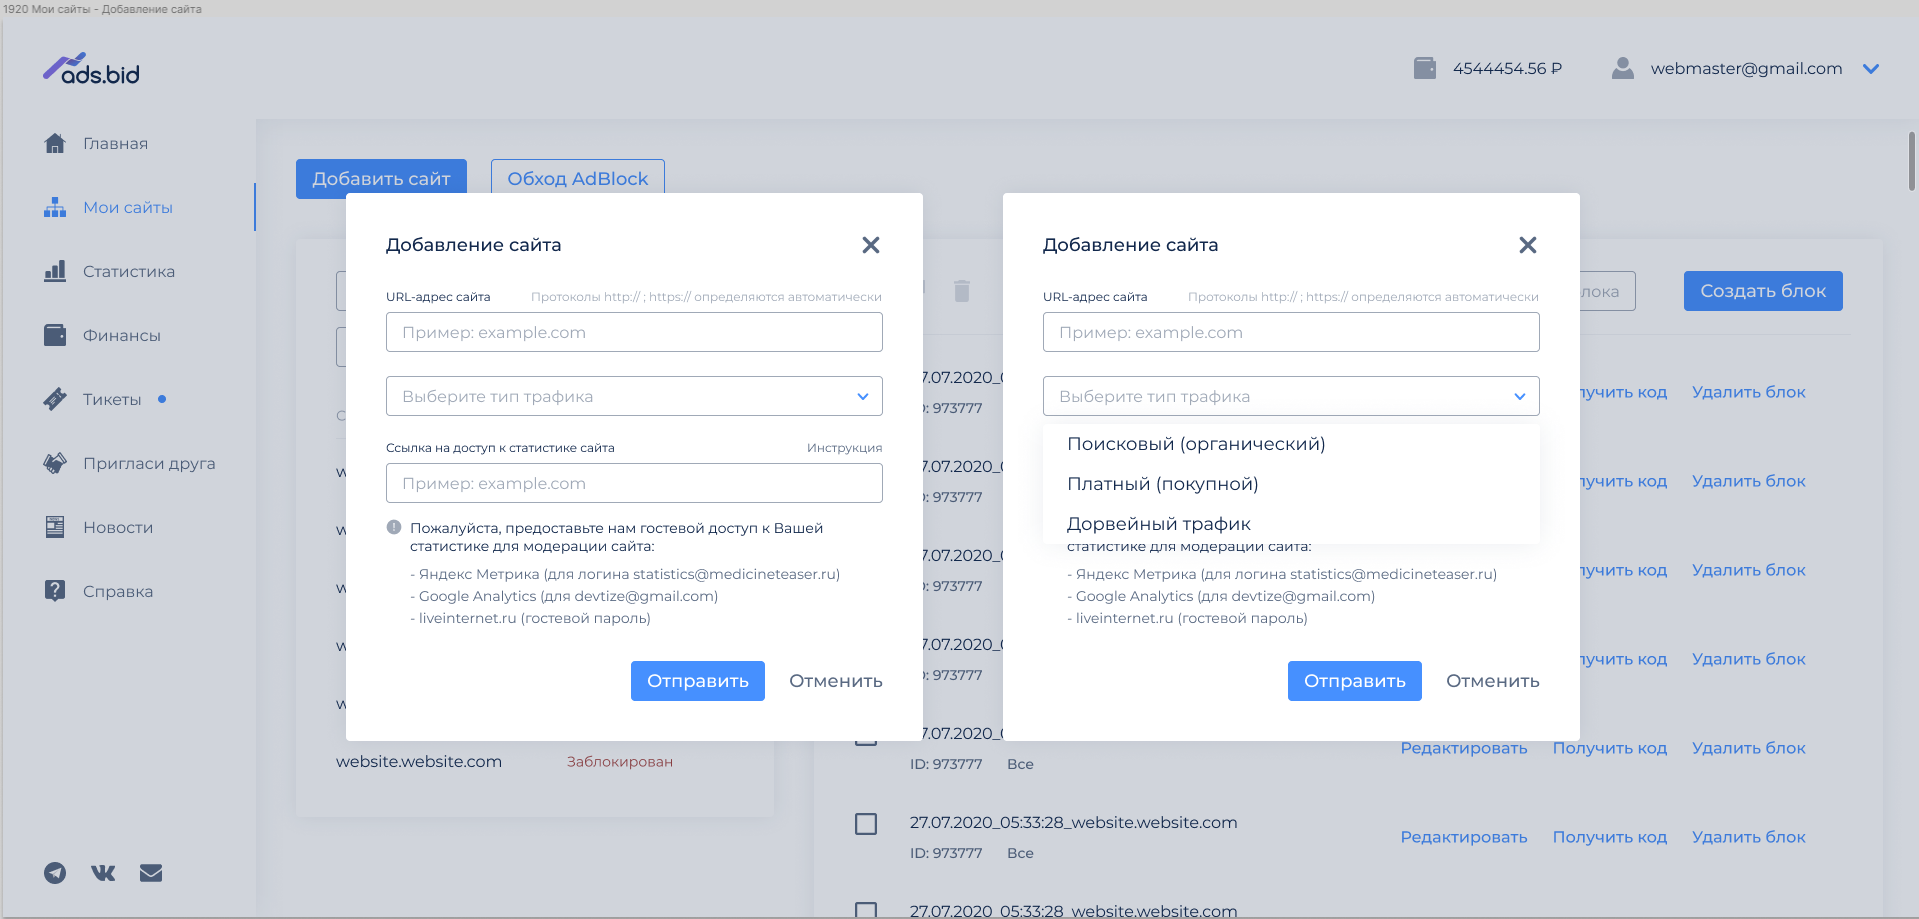
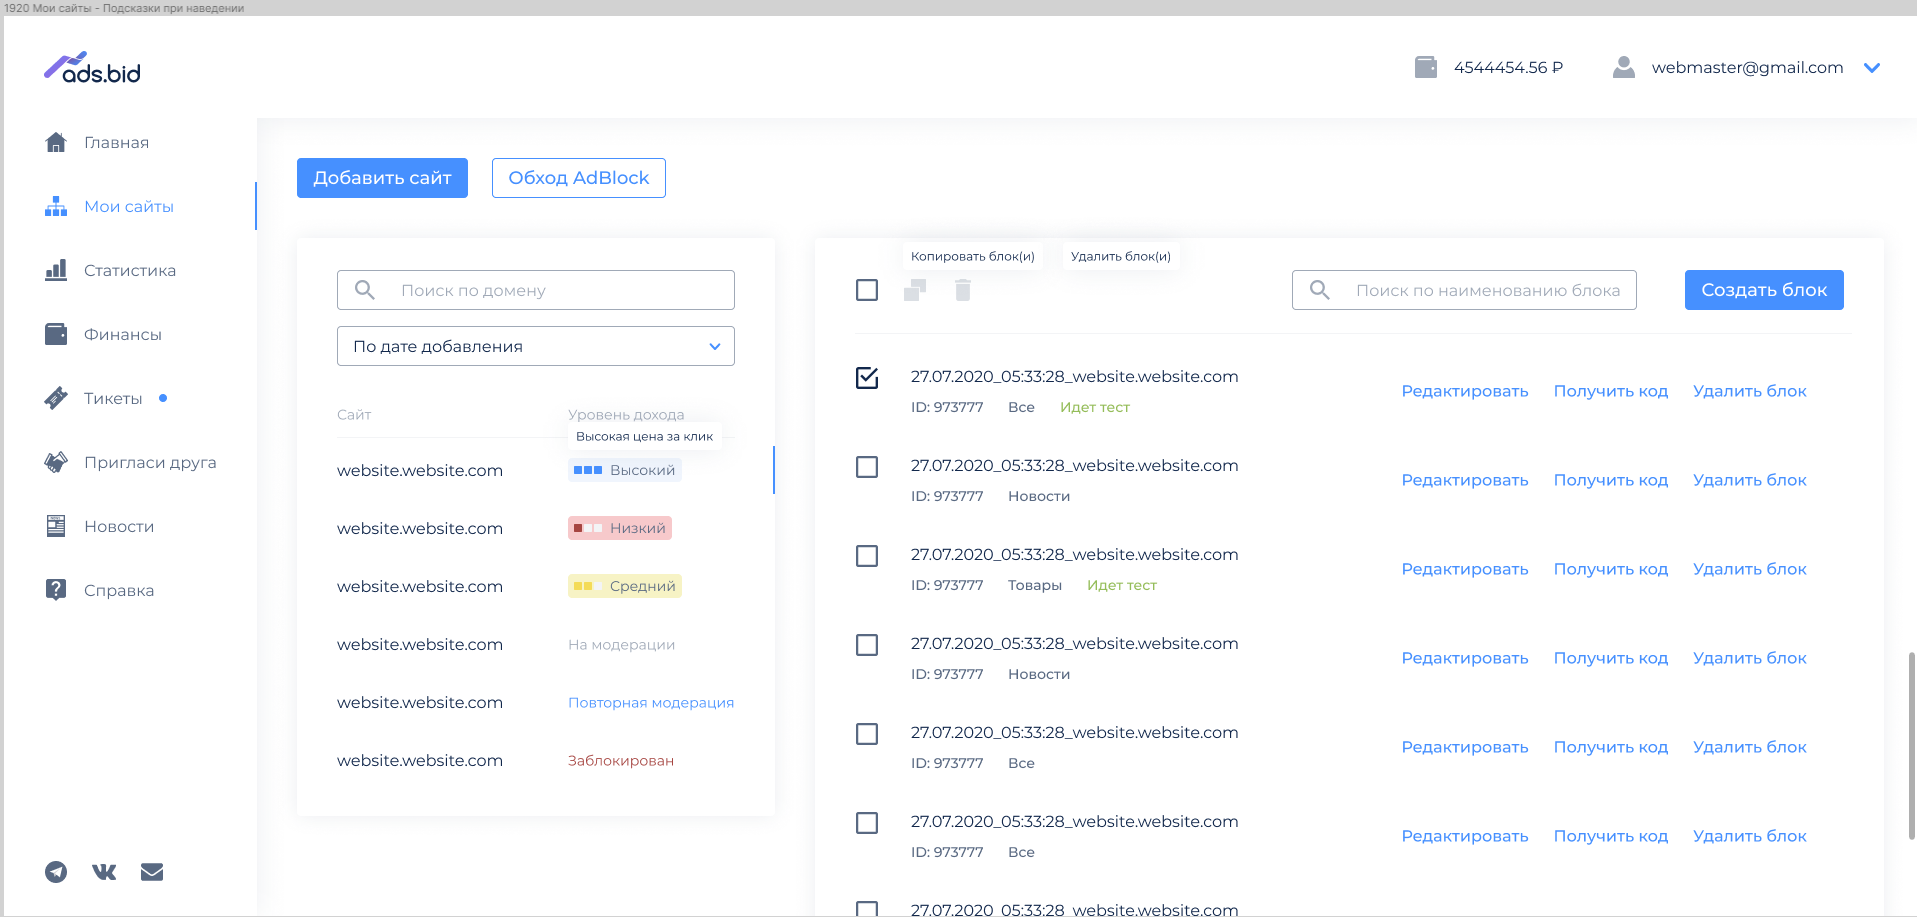
Мои сайты после проверки

diff --git a/src/pages/MySites.vue b/src/pages/MySites.vue
@@ -94,7 +94,7 @@
               </tr>
               <tr>
                 <td>website.website.com</td>
-                <td class="status">На модерации</td>
+                <td class="status status-moderate">На модерации</td>
               </tr>
               <tr>
                 <td>website.website.com</td>
@@ -111,8 +111,8 @@
         <div class="card blocks">
           <div class="blocks__head">
             <div class="blocks__buttons">
-              <div class="blocks__ckeckbox" @click="ckeckbox = !ckeckbox">
-                <div v-if="ckeckbox">
+              <div class="blocks__checkbox" @click="checkbox = !checkbox">
+                <div v-if="checkbox" class="active">
                   <svg width="24" height="24" viewBox="0 0 24 24" fill="none" xmlns="http://www.w3.org/2000/svg">
                   <path fill-rule="evenodd" clip-rule="evenodd" d="M6.98891 8.57784L5.2778 10.2889L10.7778 15.7889L23 3.56673L21.2889 1.85562L10.7778 12.3667L6.98891 8.57784Z" fill="#12284C"/>
                   <path fill-rule="evenodd" clip-rule="evenodd" d="M20.6805 20.6805H3.31579V3.31579H15.7604V1H3.46006C2.10703 1 1 2.10703 1 3.46007V20.6805C1 22.0336 2.10703 23 3.46006 23H20.6805C22.0335 23 23 22.0336 23 20.6805V10.8403H20.6805V20.6805Z" fill="#12284C"/>
@@ -160,8 +160,8 @@
 
           <ul class="blocks__list">
             <li class="blocks__item">
-              <div class="blocks__ckeckbox" @click="ckeckbox = !ckeckbox">
-                <div v-if="ckeckbox">
+              <div class="blocks__checkbox" @click="checkbox = !checkbox">
+                <div v-if="checkbox" class="active">
                   <svg width="24" height="24" viewBox="0 0 24 24" fill="none" xmlns="http://www.w3.org/2000/svg">
                   <path fill-rule="evenodd" clip-rule="evenodd" d="M6.98891 8.57784L5.2778 10.2889L10.7778 15.7889L23 3.56673L21.2889 1.85562L10.7778 12.3667L6.98891 8.57784Z" fill="#12284C"/>
                   <path fill-rule="evenodd" clip-rule="evenodd" d="M20.6805 20.6805H3.31579V3.31579H15.7604V1H3.46006C2.10703 1 1 2.10703 1 3.46007V20.6805C1 22.0336 2.10703 23 3.46006 23H20.6805C22.0335 23 23 22.0336 23 20.6805V10.8403H20.6805V20.6805Z" fill="#12284C"/>
@@ -188,8 +188,8 @@
               </div>
             </li>
             <li class="blocks__item">
-              <div class="blocks__ckeckbox" @click="ckeckbox = !ckeckbox">
-                <div v-if="ckeckbox">
+              <div class="blocks__checkbox" @click="checkbox = !checkbox">
+                <div v-if="checkbox" class="active">
                   <svg width="24" height="24" viewBox="0 0 24 24" fill="none" xmlns="http://www.w3.org/2000/svg">
                   <path fill-rule="evenodd" clip-rule="evenodd" d="M6.98891 8.57784L5.2778 10.2889L10.7778 15.7889L23 3.56673L21.2889 1.85562L10.7778 12.3667L6.98891 8.57784Z" fill="#12284C"/>
                   <path fill-rule="evenodd" clip-rule="evenodd" d="M20.6805 20.6805H3.31579V3.31579H15.7604V1H3.46006C2.10703 1 1 2.10703 1 3.46007V20.6805C1 22.0336 2.10703 23 3.46006 23H20.6805C22.0335 23 23 22.0336 23 20.6805V10.8403H20.6805V20.6805Z" fill="#12284C"/>
@@ -216,8 +216,8 @@
               </div>
             </li>
             <li class="blocks__item">
-              <div class="blocks__ckeckbox" @click="ckeckbox = !ckeckbox">
-                <div v-if="ckeckbox">
+              <div class="blocks__checkbox" @click="checkbox = !checkbox">
+                <div v-if="checkbox" class="active">
                   <svg width="24" height="24" viewBox="0 0 24 24" fill="none" xmlns="http://www.w3.org/2000/svg">
                   <path fill-rule="evenodd" clip-rule="evenodd" d="M6.98891 8.57784L5.2778 10.2889L10.7778 15.7889L23 3.56673L21.2889 1.85562L10.7778 12.3667L6.98891 8.57784Z" fill="#12284C"/>
                   <path fill-rule="evenodd" clip-rule="evenodd" d="M20.6805 20.6805H3.31579V3.31579H15.7604V1H3.46006C2.10703 1 1 2.10703 1 3.46007V20.6805C1 22.0336 2.10703 23 3.46006 23H20.6805C22.0335 23 23 22.0336 23 20.6805V10.8403H20.6805V20.6805Z" fill="#12284C"/>
@@ -244,8 +244,8 @@
               </div>
             </li>
             <li class="blocks__item">
-              <div class="blocks__ckeckbox" @click="ckeckbox = !ckeckbox">
-                <div v-if="ckeckbox">
+              <div class="blocks__checkbox" @click="checkbox = !checkbox">
+                <div v-if="checkbox" class="active">
                   <svg width="24" height="24" viewBox="0 0 24 24" fill="none" xmlns="http://www.w3.org/2000/svg">
                   <path fill-rule="evenodd" clip-rule="evenodd" d="M6.98891 8.57784L5.2778 10.2889L10.7778 15.7889L23 3.56673L21.2889 1.85562L10.7778 12.3667L6.98891 8.57784Z" fill="#12284C"/>
                   <path fill-rule="evenodd" clip-rule="evenodd" d="M20.6805 20.6805H3.31579V3.31579H15.7604V1H3.46006C2.10703 1 1 2.10703 1 3.46007V20.6805C1 22.0336 2.10703 23 3.46006 23H20.6805C22.0335 23 23 22.0336 23 20.6805V10.8403H20.6805V20.6805Z" fill="#12284C"/>
@@ -272,8 +272,8 @@
               </div>
             </li>
             <li class="blocks__item">
-              <div class="blocks__ckeckbox" @click="ckeckbox = !ckeckbox">
-                <div v-if="ckeckbox">
+              <div class="blocks__checkbox" @click="checkbox = !checkbox">
+                <div v-if="checkbox" class="active">
                   <svg width="24" height="24" viewBox="0 0 24 24" fill="none" xmlns="http://www.w3.org/2000/svg">
                   <path fill-rule="evenodd" clip-rule="evenodd" d="M6.98891 8.57784L5.2778 10.2889L10.7778 15.7889L23 3.56673L21.2889 1.85562L10.7778 12.3667L6.98891 8.57784Z" fill="#12284C"/>
                   <path fill-rule="evenodd" clip-rule="evenodd" d="M20.6805 20.6805H3.31579V3.31579H15.7604V1H3.46006C2.10703 1 1 2.10703 1 3.46007V20.6805C1 22.0336 2.10703 23 3.46006 23H20.6805C22.0335 23 23 22.0336 23 20.6805V10.8403H20.6805V20.6805Z" fill="#12284C"/>
@@ -300,8 +300,8 @@
               </div>
             </li>
             <li class="blocks__item">
-              <div class="blocks__ckeckbox" @click="ckeckbox = !ckeckbox">
-                <div v-if="ckeckbox">
+              <div class="blocks__checkbox" @click="checkbox = !checkbox">
+                <div v-if="checkbox" class="active">
                   <svg width="24" height="24" viewBox="0 0 24 24" fill="none" xmlns="http://www.w3.org/2000/svg">
                   <path fill-rule="evenodd" clip-rule="evenodd" d="M6.98891 8.57784L5.2778 10.2889L10.7778 15.7889L23 3.56673L21.2889 1.85562L10.7778 12.3667L6.98891 8.57784Z" fill="#12284C"/>
                   <path fill-rule="evenodd" clip-rule="evenodd" d="M20.6805 20.6805H3.31579V3.31579H15.7604V1H3.46006C2.10703 1 1 2.10703 1 3.46007V20.6805C1 22.0336 2.10703 23 3.46006 23H20.6805C22.0335 23 23 22.0336 23 20.6805V10.8403H20.6805V20.6805Z" fill="#12284C"/>
@@ -328,8 +328,8 @@
               </div>
             </li>
             <li class="blocks__item">
-              <div class="blocks__ckeckbox" @click="ckeckbox = !ckeckbox">
-                <div v-if="ckeckbox">
+              <div class="blocks__checkbox" @click="checkbox = !checkbox">
+                <div v-if="checkbox" class="active">
                   <svg width="24" height="24" viewBox="0 0 24 24" fill="none" xmlns="http://www.w3.org/2000/svg">
                   <path fill-rule="evenodd" clip-rule="evenodd" d="M6.98891 8.57784L5.2778 10.2889L10.7778 15.7889L23 3.56673L21.2889 1.85562L10.7778 12.3667L6.98891 8.57784Z" fill="#12284C"/>
                   <path fill-rule="evenodd" clip-rule="evenodd" d="M20.6805 20.6805H3.31579V3.31579H15.7604V1H3.46006C2.10703 1 1 2.10703 1 3.46007V20.6805C1 22.0336 2.10703 23 3.46006 23H20.6805C22.0335 23 23 22.0336 23 20.6805V10.8403H20.6805V20.6805Z" fill="#12284C"/>
@@ -563,7 +563,7 @@
         <img src="../assets/trees.svg" alt="">
 
         <div class="mob__title">
-          Страница «Мои сайты» доступна только на десктопной версии 
+          Страница «Мои сайты» доступна только на десктопной версии
         </div>
       </div>
 
@@ -583,7 +583,7 @@ export default {
       traffic: null,
       optionsOne: ["По дате добавления", "По дате создания", "По дате добавления"],
       optionsTwo: ["Поисковый (органический)", "Платный (покупной)", "Доверенный трафик"],
-      ckeckbox: false,
+      checkbox: false,
       addSite: false,
       adBlock: false,
       addDomain: false,
@@ -903,6 +903,7 @@ export default {
                 line-height: 20px;
                 padding: 23px 0px 15px 40px;
                 cursor: pointer;
+                color: #12284C;
 
                 &::before {
                   display: none;
@@ -978,6 +979,10 @@ export default {
                         background: url('../assets/level-low.svg') 0 0 no-repeat;
                       }
                     }
+                  }
+
+                  &-moderate {
+                    color: #A0A9B7;
                   }
 
                   &-remoderate {
@@ -1205,7 +1210,7 @@ export default {
           display: flex;
         }
 
-        &__ckeckbox, &__copy, &__delete {
+        &__checkbox, &__copy, &__delete {
           margin: 8px 24px 0px 0px;
           cursor: pointer;
 
@@ -1215,6 +1220,24 @@ export default {
 
           @media (max-width:800px){
             margin: 0px 16px 15px 0px;
+          }
+        }
+
+        &__checkbox {
+          svg {
+            path {
+              fill: #596982;
+            }
+          }
+
+
+
+          .active{
+            svg {
+              path {
+                fill: #12284C;
+              }
+            }
           }
         }
 
@@ -1229,6 +1252,7 @@ export default {
         }
 
         &__info {
+          color: #596982;
           display: flex;
           font-weight: 500;
           font-size: 14px;
@@ -1253,7 +1277,7 @@ export default {
           justify-content: space-between;
           margin: 32px 0px 39px;
 
-          .blocks__ckeckbox {
+          .blocks__checkbox {
             margin: 0 32px 0 0;
 
             @media (max-width:1650px){
@@ -1316,6 +1340,7 @@ export default {
         }
 
         &__title {
+          color: #12284C;
           font-size: 16px;
           line-height: 20px;
           margin: 1px 0px 12px 0px;
@@ -1404,6 +1429,7 @@ export default {
 
       .q-item {
         min-height: 40px;
+        padding: 13px 24px 6px;
 
         &:hover{
           background: #f3f4f6;
@@ -1754,6 +1780,10 @@ export default {
           margin: 0px -5px 0px 0px;
         }
 
+        &__content {
+          max-width: 496px;
+        }
+
       }
 
       .btn {
@@ -1897,7 +1927,7 @@ export default {
 
         &__link {
           color: #12284C;
-          cursor: pointer;
+          cursor: pointer;          
 
           @media (max-width:700px){
             margin: 0px 0px 10px 0px;
@@ -1910,6 +1940,13 @@ export default {
           letter-spacing: 0.2102px;
           margin: 0 24px 0 40px;
           cursor: pointer;
+
+          &:hover,
+          &:active {
+            box-shadow: none;
+            background-color: #fff;
+            color: #12284c;
+          }
 
           @media (max-width:700px){
             margin: 0px 0px 10px 0px;
@@ -1986,7 +2023,7 @@ export default {
         border-radius: 4px;
         height: 40px;
         overflow: hidden;
-        margin: 0px 0px 24px 0px;
+        margin: 0px 0px 32px 0px;
 
         &__control {
           height: 40px;
@@ -2225,7 +2262,7 @@ export default {
         display: none;
       }
 
-      .mob {      
+      .mob {
         position: absolute;
         width: 100%;
         height: 100%;
@@ -2246,11 +2283,11 @@ export default {
         }
 
         &__container {
-          max-width: 328px;        
+          max-width: 328px;
 
           img {
             max-width: 100%;
-          }        
+          }
         }
 
         &__title {
